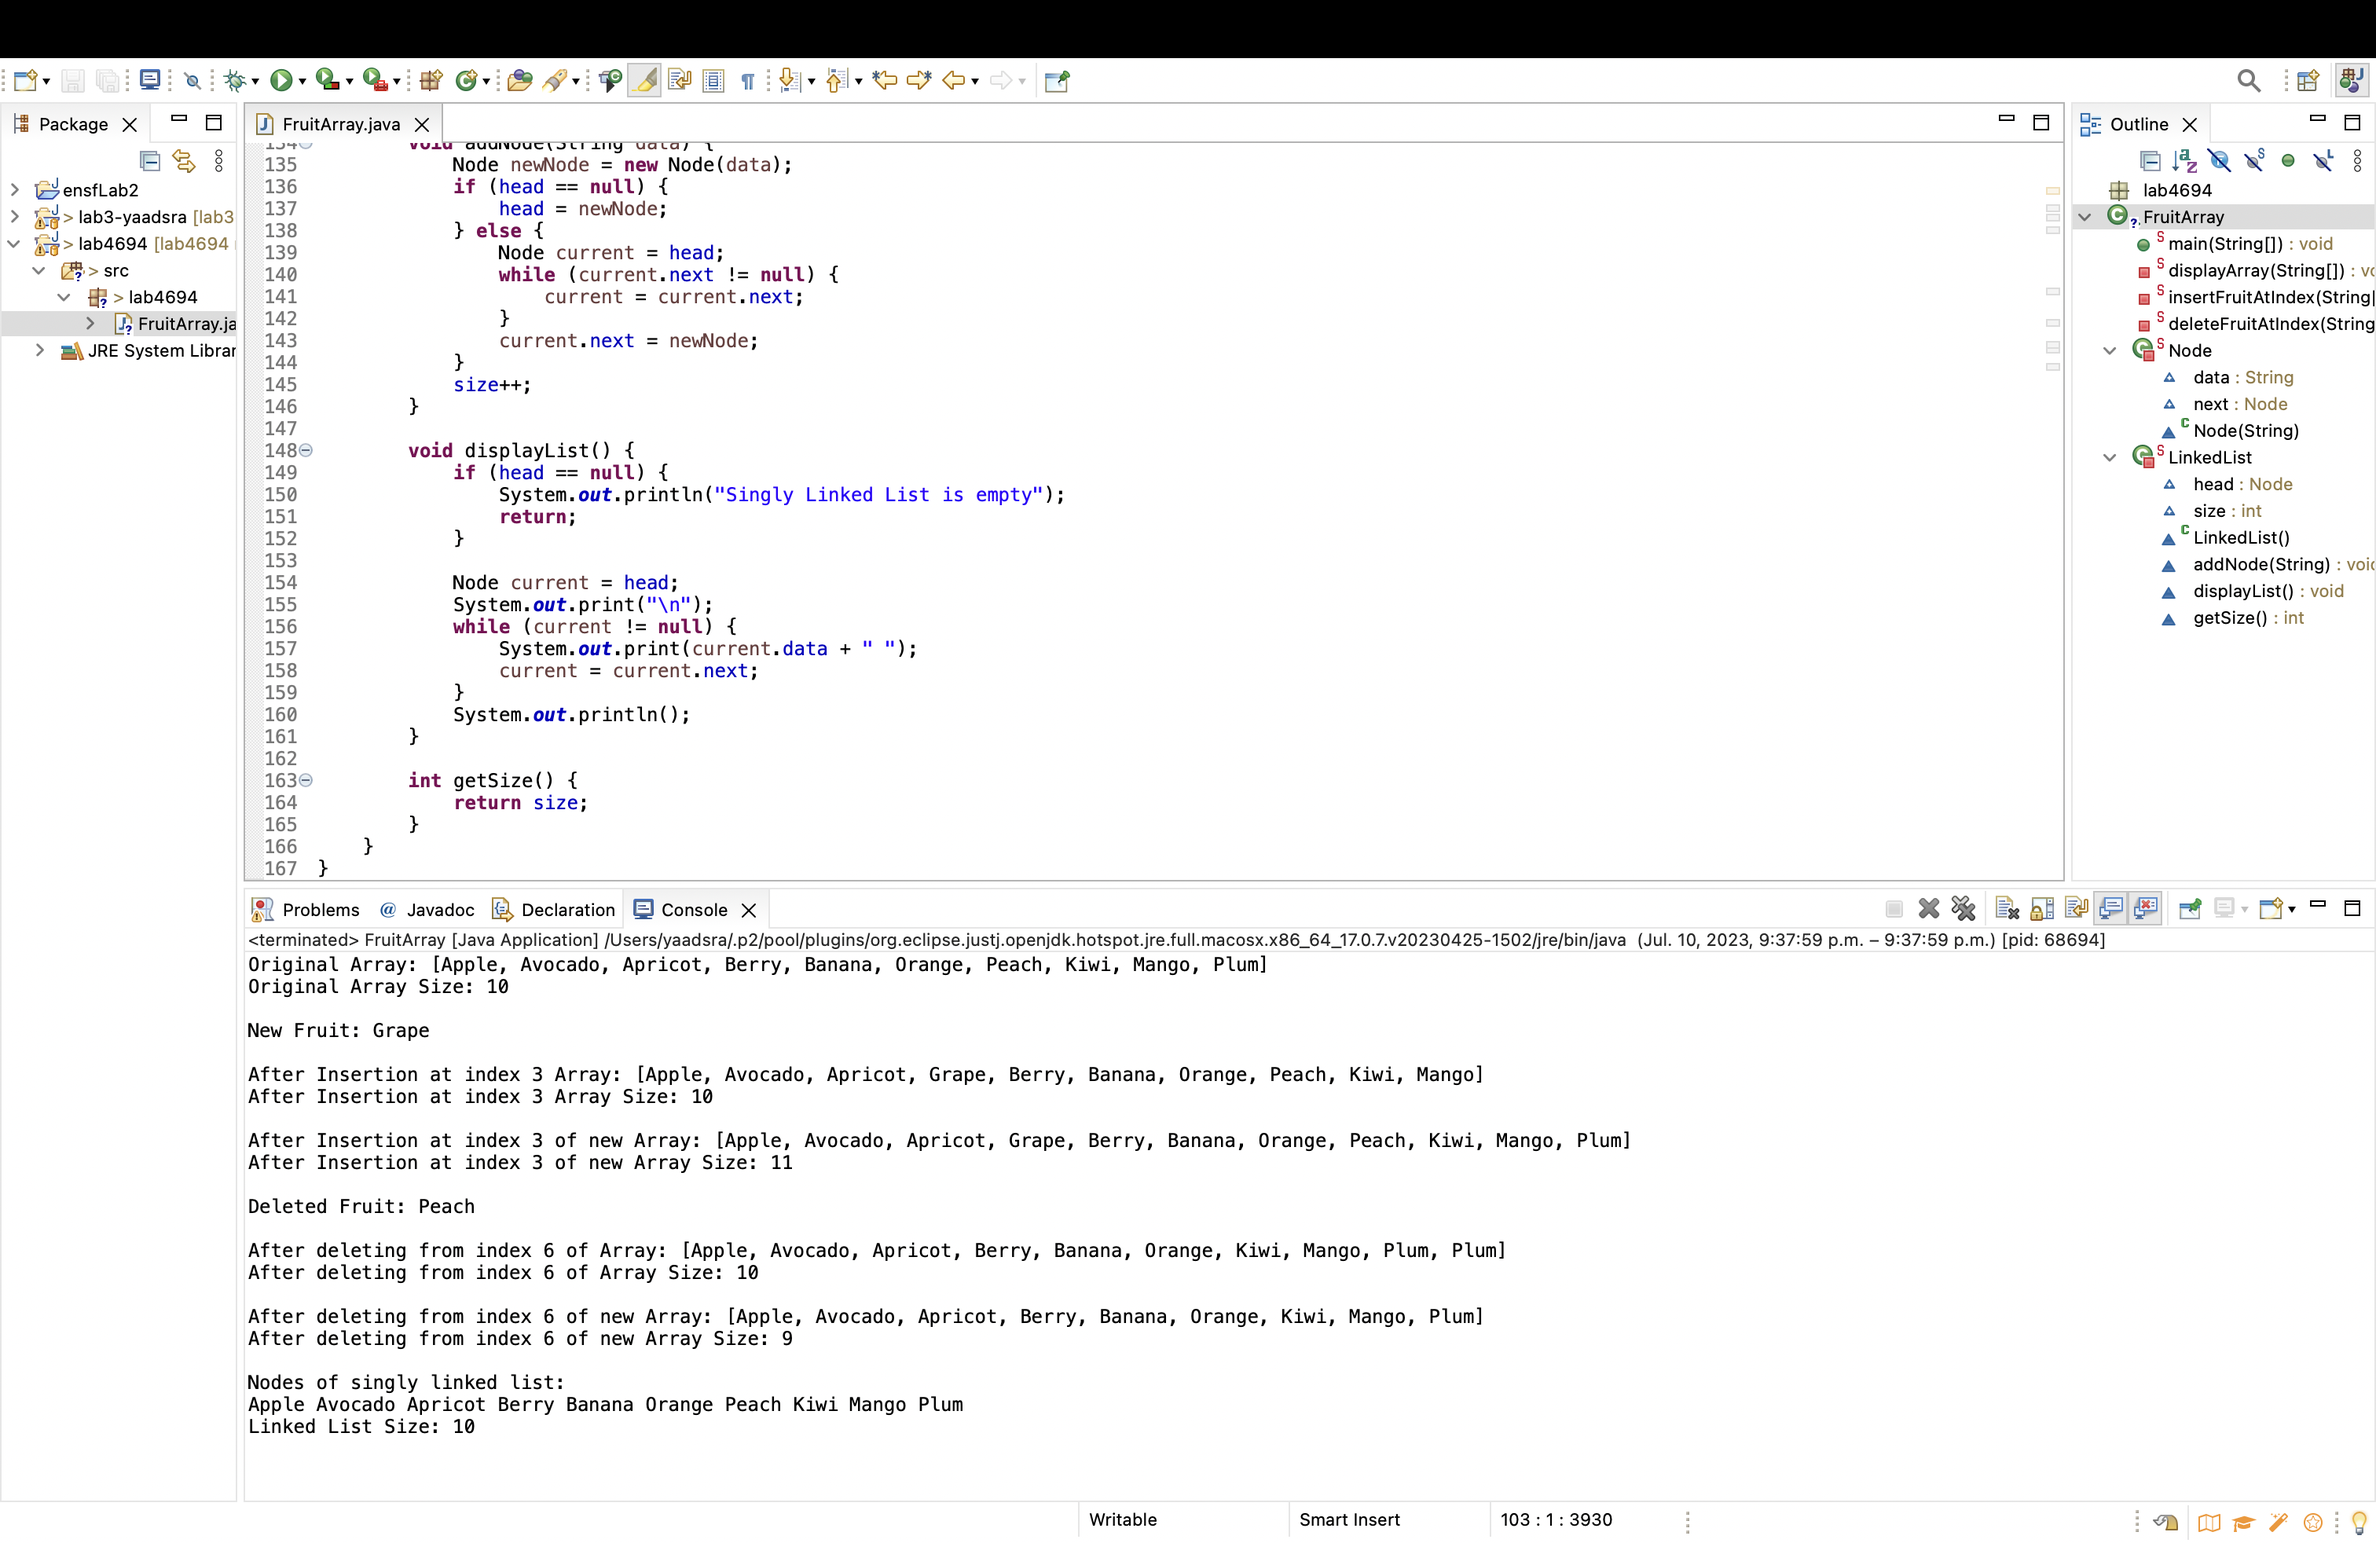
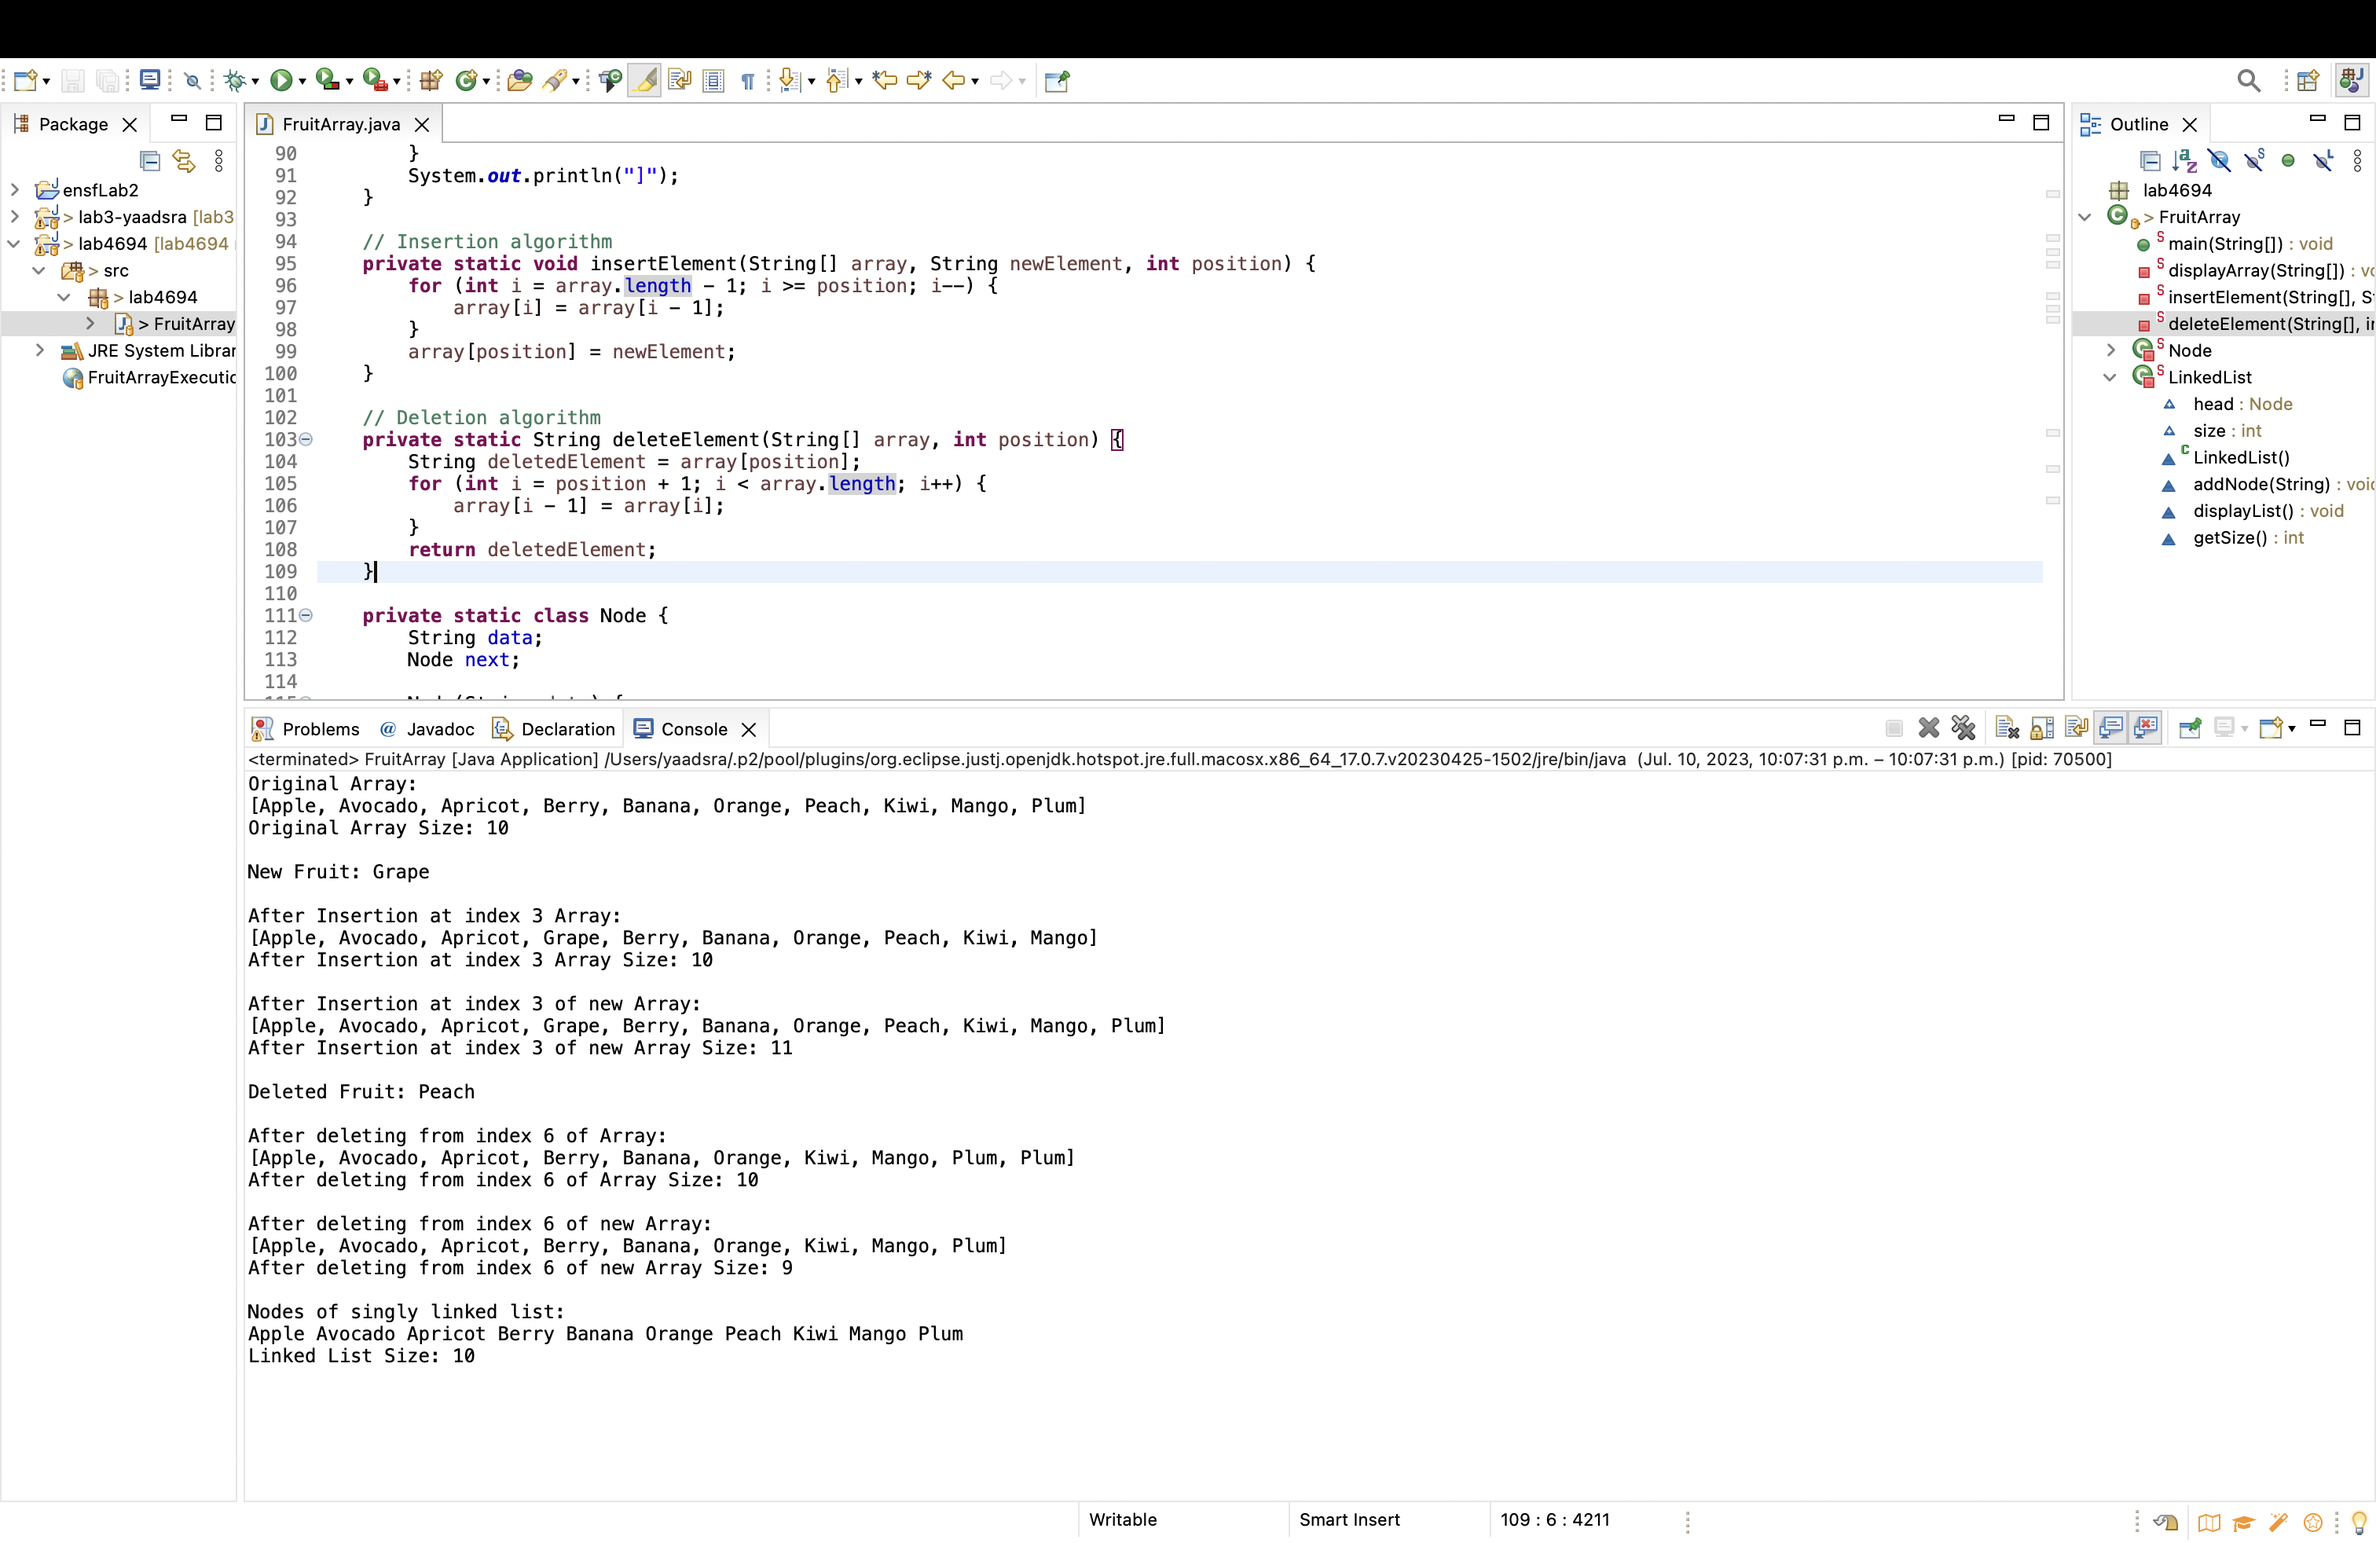
Updated Lab4

diff --git a/src/lab4694/FruitArray.java b/src/lab4694/FruitArray.java
@@ -4,15 +4,13 @@ public class FruitArray {
 	
 	public static void main(String[] args) {
 		
-		
-		// --------------- Part 1 ---------------
-		
+		// ------------------ Part 1 ------------------
 		
         // 1: Create a string array of size 10 with fruit names
         String[] fruits = {"Apple", "Avocado", "Apricot", "Berry", "Banana", "Orange", "Peach", "Kiwi", "Mango", "Plum"};
 
         // 2: Show the original array and array size
-        System.out.print("Original Array: ");
+        System.out.println("Original Array: ");
         displayArray(fruits);
         System.out.println("Original Array Size: " + fruits.length);
 
@@ -21,40 +19,40 @@ public class FruitArray {
 
         // 4: Insert a new fruit name at index 3 of the array
         String newFruit = "Grape";
-        insertFruitAtIndex(copiedArray, newFruit, 3);
+        insertElement(copiedArray, newFruit, 3);
         System.out.println("\nNew Fruit: " + newFruit);
 
         // 4a. Show the current array and array size
-        System.out.print("\nAfter Insertion at index 3 Array: ");
+        System.out.println("\nAfter Insertion at index 3 Array: ");
         displayArray(copiedArray);
         System.out.println("After Insertion at index 3 Array Size: " + copiedArray.length);
 
         // 4b. Create a new array of size 11, insert the new fruit at index 3
         String[] newArray = new String[11];
         System.arraycopy(fruits, 0, newArray, 0, fruits.length);
-        insertFruitAtIndex(newArray, newFruit, 3);
-        System.out.print("\nAfter Insertion at index 3 of new Array: ");
+        insertElement(newArray, newFruit, 3);
+        System.out.println("\nAfter Insertion at index 3 of new Array: ");
         displayArray(newArray);
         System.out.println("After Insertion at index 3 of new Array Size: " + newArray.length);
 
         // 5: Delete the fruit from index 6 of original array
-        String deletedFruit = deleteFruitAtIndex(fruits, 6);
+        String deletedFruit = deleteElement(fruits, 6);
         System.out.println("\nDeleted Fruit: " + deletedFruit);
 
         // 5a. Show the current array and array size
-        System.out.print("\nAfter deleting from index 6 of Array: ");
+        System.out.println("\nAfter deleting from index 6 of Array: ");
         displayArray(fruits);
         System.out.println("After deleting from index 6 of Array Size: " + fruits.length);
 
         // 5b. Create an array of size 9 with updated fruit names after deletion
         String[] updatedArray = new String[9];
         System.arraycopy(fruits, 0, updatedArray, 0, updatedArray.length);
-        System.out.print("\nAfter deleting from index 6 of new Array: ");
+        System.out.println("\nAfter deleting from index 6 of new Array: ");
         displayArray(updatedArray);
         System.out.println("After deleting from index 6 of new Array Size: " + updatedArray.length);
 
         
-        // --------------- Part 2 ---------------
+        // ------------------ Part 2: ------------------
 
         
         // 1. Create a linked list of strings
@@ -73,7 +71,7 @@ public class FruitArray {
         linkedList.addNode("Plum");
 
         // 3. Display the original linked list
-        System.out.print("\nNodes of singly linked list: ");
+        System.out.println("\nNodes of singly linked list:");
         linkedList.displayList();
 
         // 4. Find the size of the linked list
@@ -93,25 +91,23 @@ public class FruitArray {
         System.out.println("]");
     }
 
-    // Insert a fruit at a specific index in the array
-    private static void insertFruitAtIndex(String[] array, String fruit, int index) {
-        for (int i = array.length - 1; i > index; i--) {
+    // Insertion algorithm
+    private static void insertElement(String[] array, String newElement, int position) {
+        for (int i = array.length - 1; i >= position; i--) {
             array[i] = array[i - 1];
         }
-        array[index] = fruit;
+        array[position] = newElement;
     }
 
-    // Delete a fruit at a specific index in the array
-    private static String deleteFruitAtIndex(String[] array, int index) {
-        String deletedFruit = array[index];
-        for (int i = index; i < array.length - 1; i++) {
-            array[i] = array[i + 1];
+    // Deletion algorithm
+    private static String deleteElement(String[] array, int position) {
+        String deletedElement = array[position];
+        for (int i = position + 1; i < array.length; i++) {
+            array[i - 1] = array[i];
         }
-        array[array.length - 1] = array[array.length - 2];
-        return deletedFruit;
+        return deletedElement;
     }
 
-    // Linked List implementation
     private static class Node {
         String data;
         Node next;
@@ -150,9 +146,7 @@ public class FruitArray {
                 System.out.println("Singly Linked List is empty");
                 return;
             }
-
             Node current = head;
-            System.out.print("\n");
             while (current != null) {
                 System.out.print(current.data + " ");
                 current = current.next;
@@ -165,3 +159,4 @@ public class FruitArray {
         }
     }
 }
+
